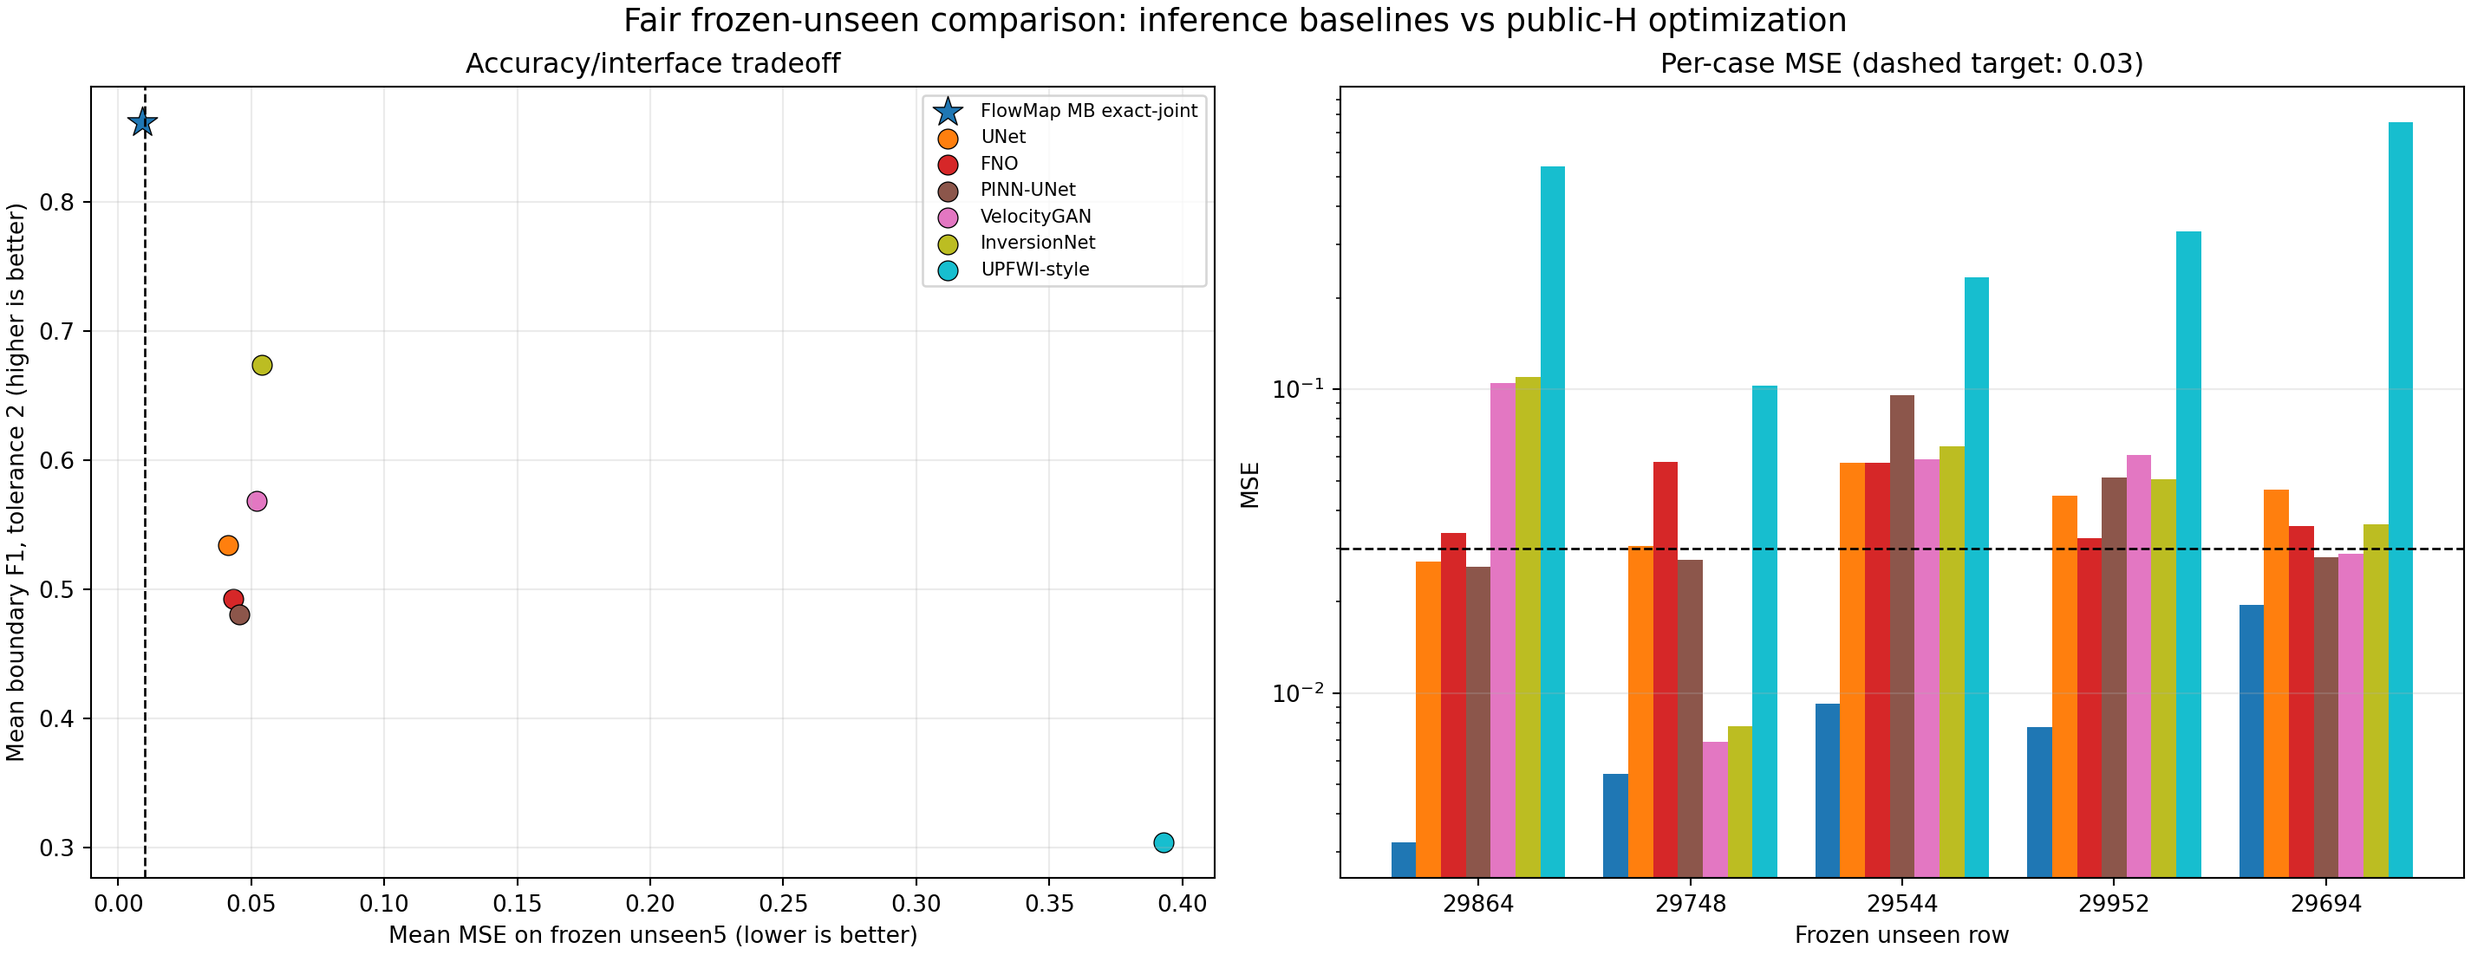
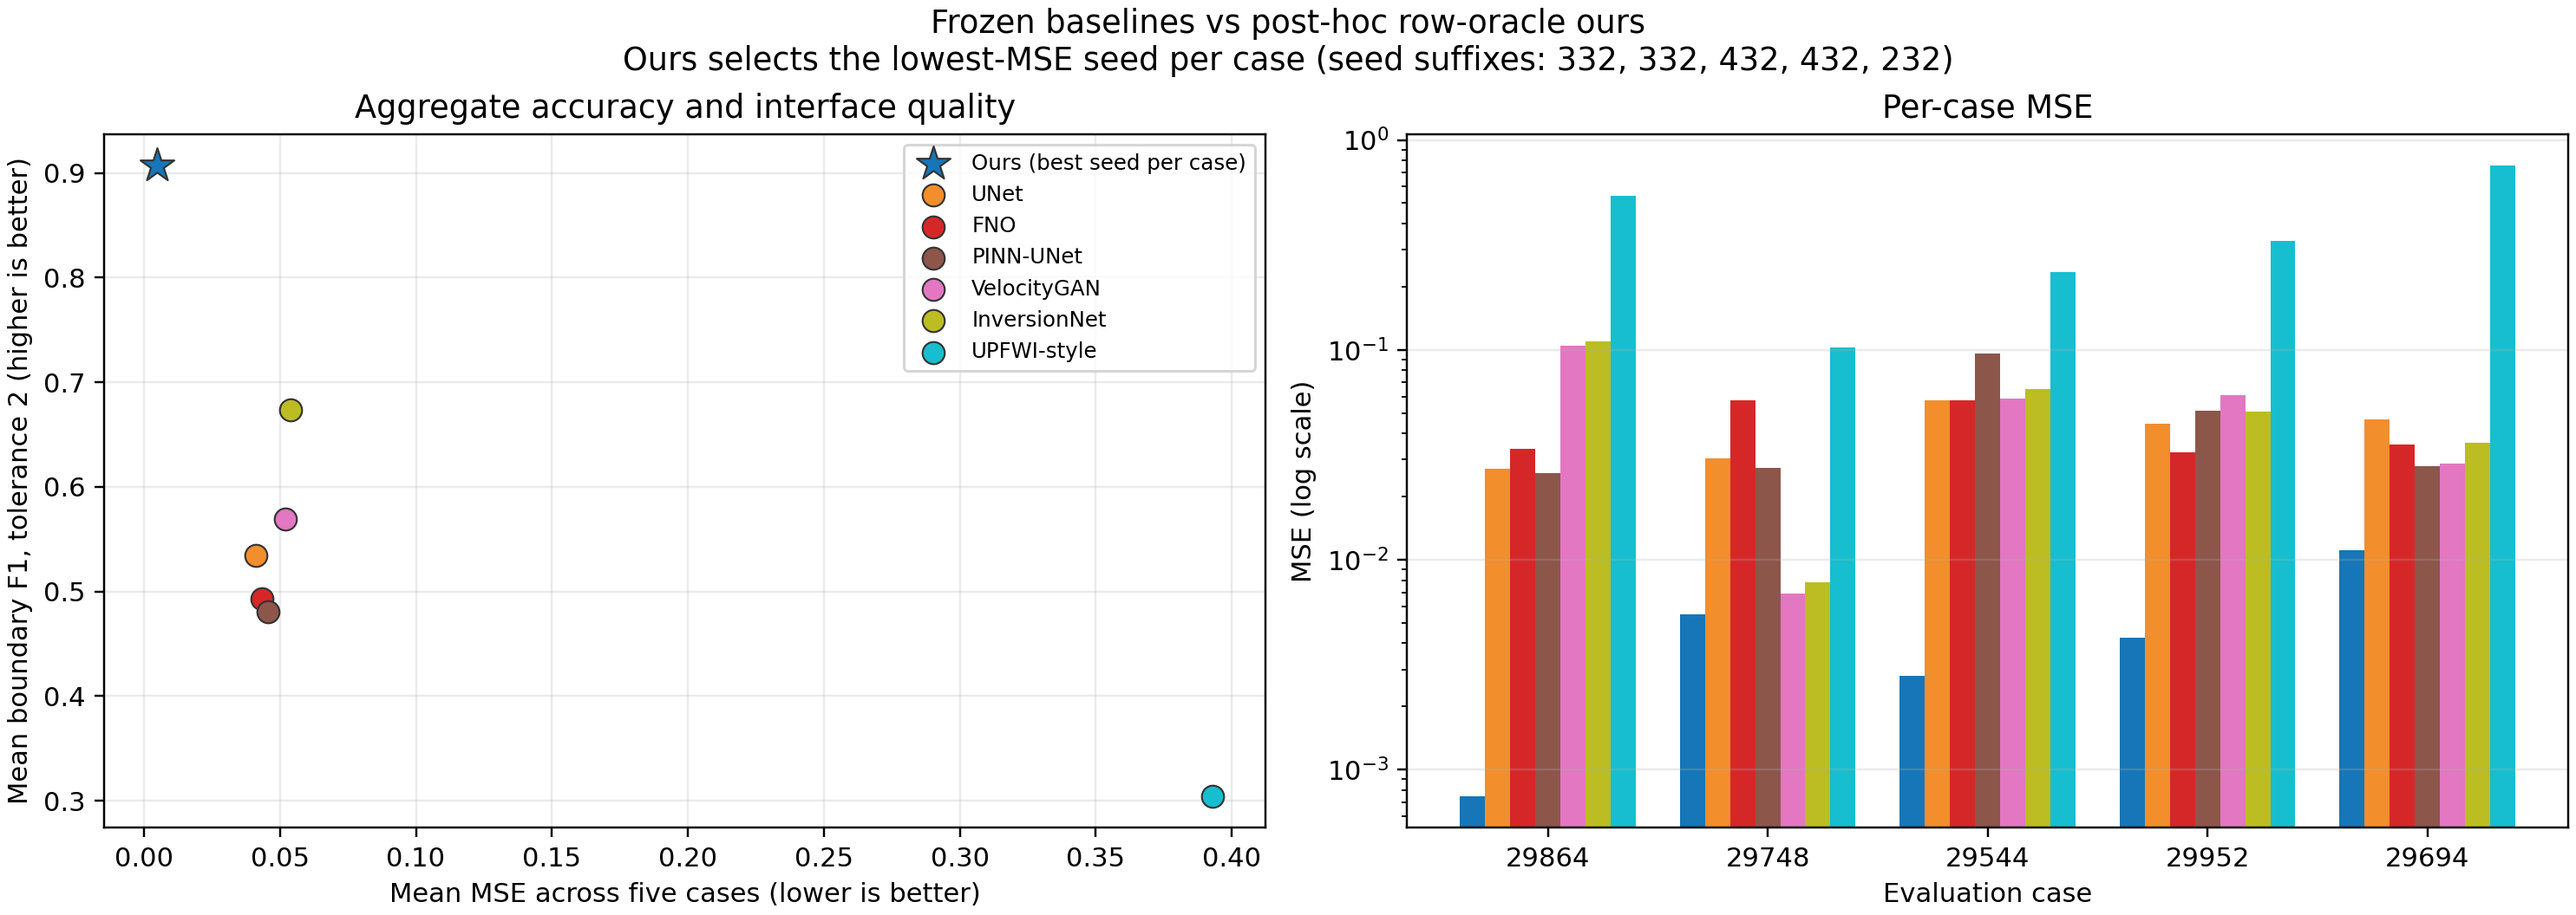
Use requested baseline and multiseed paper figures

diff --git a/plot_paper_figures.py b/plot_paper_figures.py
@@ -1,0 +1,91 @@
+#!/usr/bin/env python3
+"""Generate the two requested paper figures.
+
+Figure 1 compares frozen baselines with an explicitly post-hoc row-oracle
+summary of the final five-seed panel. Figure 2 is the frozen 5 x 5 model panel
+and is not regenerated here because its underlying field tensors are not part
+of the minimal public release.
+"""
+
+from __future__ import annotations
+
+import argparse
+import json
+from pathlib import Path
+
+import matplotlib.pyplot as plt
+import numpy as np
+
+
+def row_oracle(final: dict) -> tuple[np.ndarray, np.ndarray, list[int]]:
+    mse = np.asarray(final["matrices"]["final_mse"], dtype=float)
+    f1 = np.asarray(final["matrices"]["final_f1"], dtype=float)
+    if mse.shape != (5, 5) or f1.shape != (5, 5):
+        raise ValueError("expected final metric matrices with shape 5 x 5")
+    indices = np.argmin(mse, axis=1)
+    rows = np.arange(mse.shape[0])
+    return mse[rows, indices], f1[rows, indices], [final["seeds"][i] for i in indices]
+
+
+def plot_comparison(final_path: Path, baseline_path: Path, output_path: Path) -> None:
+    final = json.loads(final_path.read_text(encoding="utf-8"))
+    baseline = json.loads(baseline_path.read_text(encoding="utf-8"))
+    if final["rows"] != baseline["rows"]:
+        raise ValueError("baseline and final row order differ")
+
+    ours_mse, ours_f1, chosen_seeds = row_oracle(final)
+    methods = {"Ours (best seed per case)": {"mse": ours_mse, "f1": ours_f1}}
+    methods.update(baseline["methods"])
+
+    names = list(methods)
+    means_mse = np.asarray([np.mean(methods[name]["mse"]) for name in names])
+    means_f1 = np.asarray([np.mean(methods[name]["f1"]) for name in names])
+    colors = ["#1676B7", "#F28E2B", "#D62728", "#8C564B", "#E377C2", "#BCBD22", "#17BECF"]
+
+    fig, axes = plt.subplots(1, 2, figsize=(13.5, 4.8), constrained_layout=True)
+    for i, name in enumerate(names):
+        marker = "*" if i == 0 else "o"
+        size = 180 if i == 0 else 70
+        axes[0].scatter(means_mse[i], means_f1[i], marker=marker, s=size,
+                        color=colors[i], edgecolor="#333333", linewidth=0.7, label=name, zorder=3)
+    axes[0].set_xlabel("Mean MSE across five cases (lower is better)")
+    axes[0].set_ylabel("Mean boundary F1, tolerance 2 (higher is better)")
+    axes[0].set_title("Aggregate accuracy and interface quality")
+    axes[0].grid(alpha=0.25)
+    axes[0].legend(fontsize=8, loc="best")
+
+    x = np.arange(5)
+    width = 0.8 / len(names)
+    for i, name in enumerate(names):
+        axes[1].bar(x + (i - (len(names) - 1) / 2) * width,
+                    methods[name]["mse"], width=width, color=colors[i], label=name)
+    axes[1].set_yscale("log")
+    axes[1].set_xticks(x, baseline["rows"])
+    axes[1].set_xlabel("Evaluation case")
+    axes[1].set_ylabel("MSE (log scale)")
+    axes[1].set_title("Per-case MSE")
+    axes[1].grid(axis="y", alpha=0.25)
+
+    seed_suffixes = ", ".join(str(seed)[-3:] for seed in chosen_seeds)
+    fig.suptitle(
+        "Frozen baselines vs post-hoc row-oracle ours\n"
+        f"Ours selects the lowest-MSE seed per case (seed suffixes: {seed_suffixes})",
+        fontsize=12,
+    )
+    output_path.parent.mkdir(parents=True, exist_ok=True)
+    fig.savefig(output_path, dpi=220)
+    plt.close(fig)
+
+
+def main() -> None:
+    root = Path(__file__).resolve().parent
+    parser = argparse.ArgumentParser(description="Generate requested baseline comparison figure.")
+    parser.add_argument("--final", type=Path, default=root / "results/final_25_summary.json")
+    parser.add_argument("--baselines", type=Path, default=root / "results/baseline_fivecase_metrics.json")
+    parser.add_argument("--output", type=Path, default=root / "assets/figures/method_comparison.png")
+    args = parser.parse_args()
+    plot_comparison(args.final, args.baselines, args.output)
+
+
+if __name__ == "__main__":
+    main()

diff --git a/paper/main.tex b/paper/main.tex
@@ -66,19 +66,19 @@ We use a frozen optimal-transport FlowMap trained as an unconditional $70\times7
 
 \begin{figure}[t]
 \centering
-\includegraphics[width=\columnwidth]{../assets/figures/multiseed_models.png}
-\caption{Truth and final reconstructions for five evaluation cases crossed with five prespecified raw seeds.}
-\label{fig:models}
+\includegraphics[width=\columnwidth]{../assets/figures/method_comparison.png}
+\caption{Frozen task-trained baselines versus ours with the lowest-MSE seed selected separately for each case. This post-hoc row-oracle view uses truth MSE and is not an inference-time selection rule or a compute-matched superiority claim.}
+\label{fig:comparison}
 \end{figure}
 
 \paragraph{Cross-seed results.}
-Figure~\ref{fig:metrics} reports the balanced case-by-seed matrix. The final endpoints obtain mean/maximum-observed MSE $0.00929/0.02305$, mean/minimum boundary F1 $0.8905/0.7526$, and mean right-third MSE $0.00907$. Mean runtime is 2,978 seconds per cell. The 25 cells form a crossed design over only five geological cases; they are not 25 independent tasks.
+Figure~\ref{fig:models} reports the balanced case-by-seed reconstruction matrix. The final endpoints obtain mean/maximum-observed MSE $0.00929/0.02305$ and mean/minimum boundary F1 $0.8905/0.7526$. Mean runtime is 2,978 seconds per cell. The 25 cells form a crossed design over only five geological cases; they are not 25 independent tasks.
 
 \begin{figure}[t]
 \centering
-\includegraphics[width=\columnwidth]{../assets/figures/multiseed_metrics.png}
-\caption{Five evaluation cases (rows) crossed with five prespecified raw seeds (columns). One endpoint is reported per cell without truth-based post-hoc seed or endpoint selection.}
-\label{fig:metrics}
+\includegraphics[width=\columnwidth]{../assets/figures/multiseed_models.png}
+\caption{Truth and final reconstructions for five evaluation cases (rows) crossed with five prespecified raw seeds (columns). Unlike Fig.~\ref{fig:comparison}'s explicit row-oracle summary, this panel shows every run.}
+\label{fig:models}
 \end{figure}
 
 \begin{table}[t]
@@ -98,14 +98,7 @@ F1 improved & -- & 22/25\\
 \end{table}
 
 \paragraph{Component attribution.}
-Relative to the internal source stage, the final endpoint reduces mean MSE by $0.00495$. It improves MSE in 19/25 cells and worsens it in 6/25; boundary F1 improves in 22/25. Figure~\ref{fig:attribution} reports every paired change. This supports component attribution inside the implemented pipeline but does not identify a causal source--Multi-Back interaction.
-
-\begin{figure}[t]
-\centering
-\includegraphics[width=\columnwidth]{../assets/figures/source_to_multiback_attribution.png}
-\caption{Internal source-stage to final-endpoint MSE changes. Blue denotes improvement and red regression. This is not a compute-matched independent baseline.}
-\label{fig:attribution}
-\end{figure}
+Relative to the internal source stage, the final endpoint reduces mean MSE by $0.00495$. It improves MSE in 19/25 cells and worsens it in 6/25; boundary F1 improves in 22/25. This supports component attribution inside the implemented pipeline but does not identify a causal source--Multi-Back interaction.
 
 \section{Limitations and Conclusion}
 This technical draft contains only five geological cases, one synthetic acquisition family, and one frozen flow prior. It requires differentiable physics and intermediate trajectory access and is computationally expensive. Its D4 stage performs public-objective candidate selection, and the nonconvex solver has no global recovery guarantee. Matched external baselines, a source off/on $\times$ Multi-Back off/on experiment, uncertainty over more independent cases, and a licensed end-to-end release remain necessary for a formal submission.

diff --git a/tests/test_release_audit.py b/tests/test_release_audit.py
@@ -8,6 +8,8 @@ from pathlib import Path
 import subprocess
 import sys
 
+import numpy as np
+
 
 ROOT = Path(__file__).resolve().parents[1]
 
@@ -62,3 +64,15 @@ def test_plot_cli_writes_requested_output(tmp_path: Path) -> None:
     )
     assert output.is_file()
     assert output.stat().st_size > 10_000
+
+
+def test_paper_figure_uses_lowest_mse_seed_per_case() -> None:
+    figure_module = _load_module("paper_figures", ROOT / "plot_paper_figures.py")
+    summary = json.loads(
+        (ROOT / "results/final_25_summary.json").read_text(encoding="utf-8")
+    )
+    mse, f1, seeds = figure_module.row_oracle(summary)
+    assert seeds == [20268332, 20268332, 20268432, 20268432, 20268232]
+    matrix = np.asarray(summary["matrices"]["final_mse"], dtype=float)
+    assert np.allclose(mse, matrix.min(axis=1))
+    assert mse.shape == f1.shape == (5,)

diff --git a/paper/main.md b/paper/main.md
@@ -99,17 +99,17 @@ We use a frozen optimal-transport FlowMap trained as an unconditional $70\times7
 
 FWI-specific acquisition, checkpoint, split, exposure-history, and metric details are separated into the [archival appendix](../docs/fwi_appendix.md), keeping the main formulation task-agnostic.
 
-### 3.1 Reconstruction comparison across seeds
+### 3.1 Baseline comparison with row-oracle ours
+
+![Frozen baselines compared with the lowest-MSE seed selected separately for each evaluation case.](../assets/figures/method_comparison.png)
+
+*Figure 1. Frozen task-trained baselines versus ours with the lowest-MSE seed selected separately for each evaluation case. The selected seed suffixes are 332, 332, 432, 432, and 232 in row order. This is a post-hoc row-oracle visualization using truth MSE, not an inference-time selection rule or a compute-matched superiority claim.*
+
+### 3.2 Five cases × five seeds
 
 ![Truth and final reconstructions for five evaluation cases crossed with five prespecified raw seeds.](../assets/figures/multiseed_models.png)
 
-*Figure 1. Truth and final reconstructions for five evaluation cases crossed with five prespecified raw seeds.*
-
-### 3.2 Cross-seed metrics
-
-![Five evaluation cases crossed with five prespecified raw seeds.](../assets/figures/multiseed_metrics.png)
-
-*Figure 2. Five evaluation cases (rows) crossed with five prespecified raw seeds (columns). One endpoint is reported per cell without truth-based post-hoc seed or endpoint selection.*
+*Figure 2. Truth and final reconstructions for five evaluation cases (rows) crossed with five prespecified raw seeds (columns). Unlike Figure 1's explicit row-oracle summary, this panel shows every run.*
 
 The final endpoints obtain mean/maximum-observed MSE **0.00929/0.02305** and mean/minimum boundary F1 **0.8905/0.7526**. Mean runtime is 2,978 seconds per cell. The unit of task variation is the geological case ($n=5$); seeds are repeated runs within case. We therefore report the complete crossed panel and paired cell-wise attribution descriptively, without treating the 25 cells as independent samples or claiming population-level significance.
 
@@ -121,12 +121,6 @@ The final endpoints obtain mean/maximum-observed MSE **0.00929/0.02305** and mea
 | Boundary F1 improved | — | 22/25 |
 
 *Table 1. Internal source-stage and final-endpoint metrics. The source stage is not a compute-matched independent baseline.*
-
-### 3.3 Source-to-Multi-Back component attribution
-
-![Internal source-stage to final-endpoint MSE changes.](../assets/figures/source_to_multiback_attribution.png)
-
-*Figure 3. Internal source-stage to final-endpoint MSE changes. Blue denotes improvement and red regression. This is not a compute-matched independent baseline.*
 
 Relative to the internal source stage, the final endpoint reduces mean MSE by **0.00495**. It improves MSE in 19/25 cells and worsens it in 6/25; boundary F1 improves in 22/25. This supports component attribution inside the implemented pipeline but does not identify a causal source–Multi-Back interaction. A compute-matched source off/on $\times$ Multi-Back off/on experiment is still needed for that claim.
 

diff --git a/README.md b/README.md
@@ -80,17 +80,17 @@ The fixed final protocol uses five evaluation cases crossed with five prespecifi
 
 The final stage is associated with a mean MSE reduction of 0.00495, but MSE worsens in 6/25 runs. Because the endpoint solve reopens source and recourse blocks together, this delta cannot be attributed causally to Multi-Back alone. The 25 cells form a crossed case-by-seed design, not 25 independent tasks.
 
-### Internal source-stage → final endpoint attribution
+### Figure 1: baselines versus row-oracle ours
 
-![Paired source-stage to final endpoint attribution](assets/figures/source_to_multiback_attribution.png)
+![Frozen baselines versus the lowest-MSE seed selected per case](assets/figures/method_comparison.png)
 
-This is paired component attribution within one pipeline, not a compute-matched independent baseline or a causal 2 × 2 ablation.
+For ours, this figure selects the lowest-truth-MSE seed separately within each case from the final five-seed panel (seed suffixes `332, 332, 432, 432, 232`). It is intentionally a post-hoc row-oracle visualization, not an inference-time selector, an unbiased aggregate, or a compute-matched superiority claim.
 
-### Five cases by five raw seeds
+### Figure 2: five cases by five raw seeds
 
 ![Multi-seed reconstruction panel](assets/figures/multiseed_models.png)
 
-![Multi-seed metric heatmaps](assets/figures/multiseed_metrics.png)
+This panel shows all 25 outputs and therefore exposes the variation hidden by Figure 1's row-oracle presentation.
 
[1 lines of base64/hex data omitted]
 
@@ -116,10 +116,10 @@ source .venv/bin/activate        # Windows: .venv\Scripts\activate
 pip install -e ".[test]"
 pytest -q
 python analyze_final_panel.py
-python plot_attribution.py
+python plot_paper_figures.py
 ```
 
-Run these commands from the repository root. The analyzer verifies the balanced 5 × 5 panel, the 25 × 8 decision ledger, record hashes, and canonical release hash.
+Run these commands from the repository root. The analyzer verifies the balanced 5 × 5 panel, the 25 × 8 decision ledger, record hashes, and canonical release hash. The plotting command regenerates Figure 1; Figure 2 requires the field tensors retained by the research backend and is shipped as a frozen artifact.
 
 ## Reproducibility boundary
 
